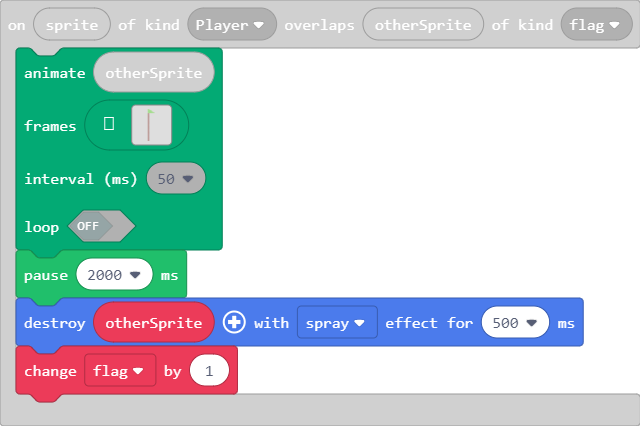
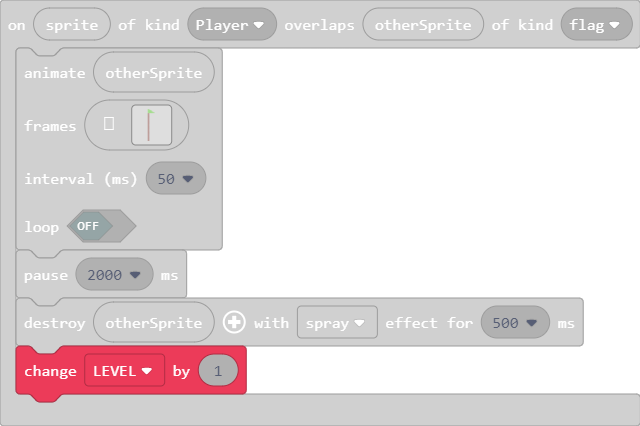
Update main.blocks, main.ts

Changed region(s): [[0.0, 0.0915, 0.9375, 0.946]]

diff --git a/main.ts b/main.ts
@@ -2130,7 +2130,7 @@ e e e e . . . . . . . . . . .
     )
     pause(2000)
     otherSprite.destroy()
-    flag += 1
+    LEVEL += 1
 })
 function marioDie () {
     marioImage = 3
@@ -3454,6 +3454,7 @@ function shooting () {
     }
 }
 let projectile: Sprite = null
+let flag: Sprite = null
 let princess: Sprite = null
 let plant: Sprite = null
 let braking_block: Sprite = null
@@ -3461,7 +3462,6 @@ let musharoom: Sprite = null
 let COIN_: Sprite = null
 let plantLevelUp: Sprite = null
 let marioImage = 0
-let flag = 0
 let LEVEL = 0
 let superMario: Sprite = null
 let randomItemofBox = 0
